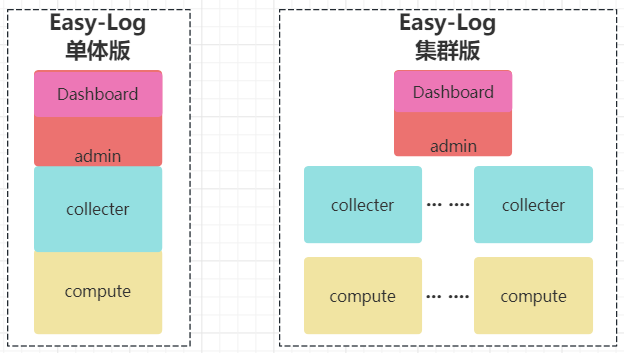
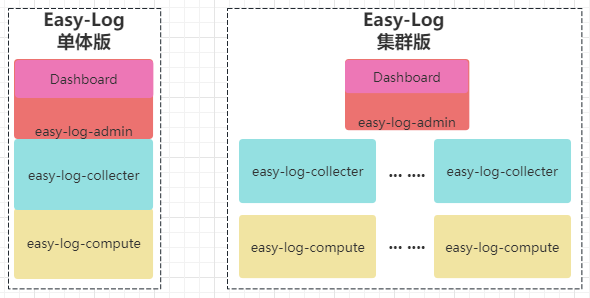
docs: 补充文档

Changed region(s): [[0.3966, 0.0, 1.0, 0.9966], [0.0, 0.0, 0.3661, 0.9966], [0.2746, 0.1208, 0.3051, 0.151]]

diff --git a/README.md b/README.md
@@ -44,12 +44,12 @@
 
 ---
 
-## 客户端使用说明
+## 应用使用说明
 
-### 创建客户端配置文件
+### 创建应用配置文件
 
 ```properties
-# 创建src/main/resources/easy-log.properties
+# 创建src/main/resources/easy-log.properties，文件名固定为easy-log.properties
 appName=demo                            #应用名称
 namespace=test                          #命名空间
 mqttAddress=tcp://ip:1883               #emqx地址
@@ -59,10 +59,9 @@ maxPushSize=500                         #日志批推送大小
 
 ---
 
-### 客户端maven依赖引入
+### 应用端maven依赖引入
 
 ```xml
-
 <dependencies>
     <!--结合项目中使用的日志框架-->
     <dependency>

diff --git a/doc/quick-start/emqx/emqx.md b/doc/quick-start/emqx/emqx.md
@@ -10,15 +10,14 @@
 docker network create --driver=bridge --gateway=172.18.0.1 --subnet=172.18.0.0/16 el_net
 ```
 
-#### 2、创挂载数据卷文件夹并授权
+#### 2、创建挂载数据卷文件夹并授权
 ```shell
+# 进入emqx文件夹下
 mkdir -p emqx_data_01 emqx_data_02
 chmod 777 emqx_data_*
 ```
 
 #### 3、启动EMQX集群
-- 将emqx文件夹复制到宿主机上
-- 在emqx目录下，执行docker-compose up -d 命令
 ```shell
 # 启动EMQX集群
 docker-compose up -d

diff --git a/doc/quick-start/easy-log/el.md b/doc/quick-start/easy-log/el.md
@@ -11,8 +11,8 @@ docker network create --driver=bridge --gateway=172.18.0.1 --subnet=172.18.0.0/1
 ```
 #### 2、选择部署方式
 ```shell
-# single  单机
-# cluster 伪集群
+# single  单体版
+# cluster 集群版
 ```
 
 #### 3、选择对应的文件夹
